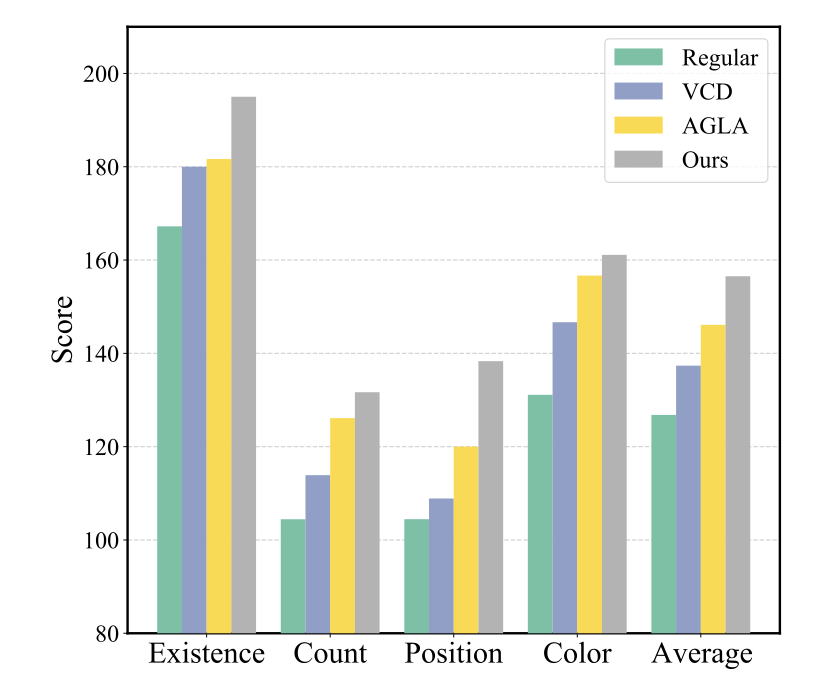
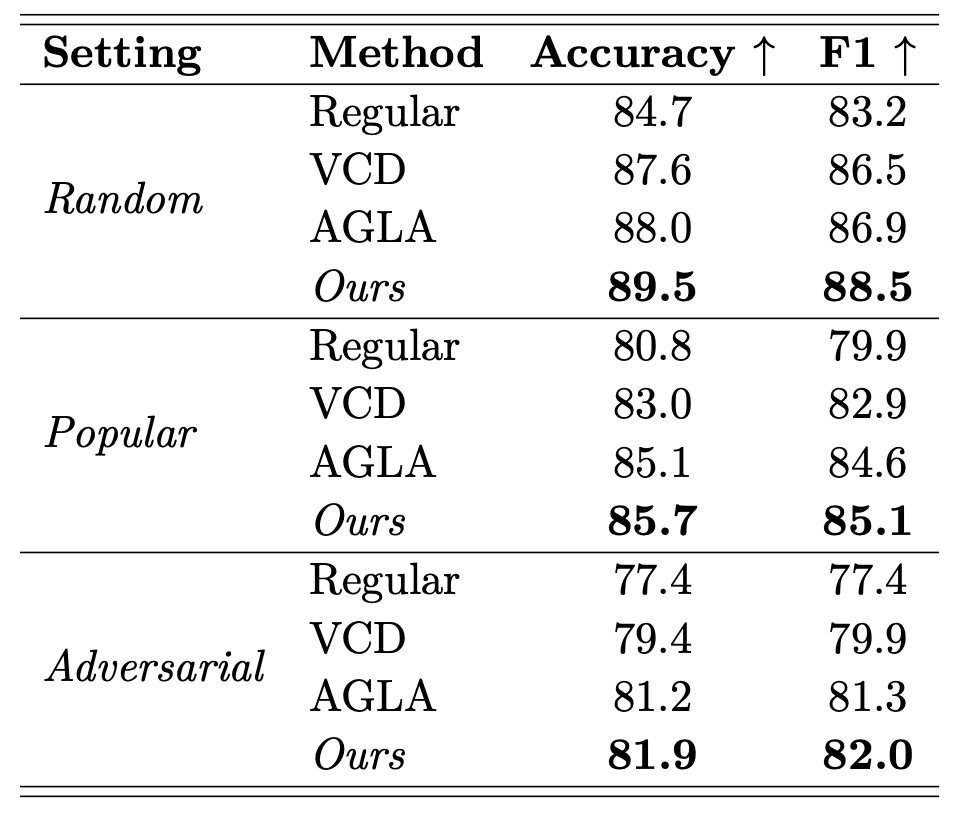
add links

diff --git a/README.md b/README.md
@@ -1,12 +1,12 @@
 # Masking What Matters: A Smarter Way to Stop Vision-Language Models from Hallucinating
 
-*Survey on the paper "Mask What Matters: Mitigating Object Hallucinations in Multimodal Large Language Models with Object-Aligned Visual Contrastive Decoding" by Boqi Chen, Xudong Liu, and Jianing Qiu (2026).*
+*Survey on the paper [Mask What Matters: Mitigating Object Hallucinations in Multimodal Large Language Models with Object-Aligned Visual Contrastive Decoding](https://arxiv.org/abs/2602.11737) by Boqi Chen, Xudong Liu, and Jianing Qiu (2026).*
 
 Multimodal Large Language Models (MLLMs) are impressive at describing images, answering visual questions, and following complex instructions. However, they frequently suffer from so-called object hallucination, which occurs when a model confidently describes objects that simply are not present in the image. 
 
 Imagine asking a model to describe a picture of a dog in a park. Because the model was trained on billions of text documents where dogs are often accompanied by cats or frisbees, its language bias might cause it to hallucinate a frisbee into the scene, even if the image does not show one.
 
-Recently, researchers introduced a novel, training-free method to mitigate this called **Visual Contrastive Decoding (VCD)**. A new paper by researchers from ETH Zurich, Amazon, and MBZUAI introduces an elegant upgrade to this approach: **Object-Aligned Visual Contrastive Decoding (OA-VCD)**. By selectively masking the most important parts of an image, they force the model to rely on actual visual evidence rather than its own linguistic imagination.
+Recently, researchers introduced a novel, training-free method to mitigate this called **[Visual Contrastive Decoding (VCD)](https://arxiv.org/abs/2311.16922)**. A new paper by researchers from ETH Zurich, Amazon, and MBZUAI introduces an elegant upgrade to this approach: **Object-Aligned Visual Contrastive Decoding (OA-VCD)**. By selectively masking the most important parts of an image, they force the model to rely on actual visual evidence rather than its own linguistic imagination.
 
 Here is how it works in detail.
 
@@ -22,18 +22,19 @@ The core idea is simple: if the model predicts the word *frisbee* when looking a
 However, previous methods for corrupting the image are flawed. They relied on random noise, global blurring, or cross-modal models that depended heavily on the text prompt. These distortions are not aligned with the actual boundaries of objects in the image, meaning they might fail to properly obscure the visual evidence. 
 
 ## The Breakthrough: Masking What Matters
-Instead of randomly distorting the image, the authors propose constructing an object-aligned auxiliary view. They achieve this by using the attention maps from a self-supervised Vision Transformer (specifically, DINO). 
+Instead of randomly distorting the image, the authors propose constructing an object-aligned auxiliary view. They achieve this by using the attention maps from a self-supervised Vision Transformer (specifically, [DINO](https://arxiv.org/abs/2104.14294)). 
 
 Self-supervised models like DINO naturally learn to highlight the most prominent, semantically meaningful objects in an image without needing any text prompts or task-specific training. 
 
 The researchers use this DINO attention map to locate the most salient visual evidence in the image. Then, they completely mask it out. 
 
 ![Figure 1](figure_1.png)
+*Figure 1: An overview of the OA-VCD method. (a) In regular decoding, the model incorrectly assigns a high probability to a hallucinated concept ("Boy") due to language priors. (b) In the auxiliary view, the primary visual evidence (the dog) is masked out. Here, ungrounded tokens remain probable while grounded tokens drop. (c) Contrastive decoding subtracts the auxiliary distribution from the regular one, successfully suppressing the hallucination and elevating the correct token ("Dog").*
 
 By removing the main object (e.g., masking the dog with a neutral background color), the model is forced into a corner. If the model still tries to generate the word *dog* while looking at an image where the dog has been explicitly erased, it becomes obvious that the model is hallucinating. The contrastive decoding algorithm catches this and penalizes the hallucinated tokens, producing a more accurate final answer.
 
 ## Evaluation
-The researchers tested OA-VCD on two popular object hallucination benchmarks: POPE and MME. They applied the method to two different widely-used open-source models: LLaVA-v1.5 (7B) and Qwen-VL (7B). 
+The researchers tested OA-VCD on two popular object hallucination benchmarks: [POPE](https://arxiv.org/abs/2305.10355) and [MME](https://arxiv.org/abs/2306.13549). They applied the method to two different widely-used open-source models: [LLaVA-v1.5 (7B)](https://arxiv.org/abs/2304.08485) and [Qwen-VL (7B)](https://arxiv.org/abs/2308.12966). 
 
 The results were following:
 * **Consistent Improvements:** Across different POPE evaluation subsets (Random, Popular, Adversarial), OA-VCD consistently outperformed both regular decoding and previous state-of-the-art VCD methods.
@@ -41,8 +42,13 @@ The results were following:
 * **Qualitative Coherence:** In complex case studies—such as describing a painting of a dog dressed like the Mona Lisa—regular decoding hallucinated non-existent people and additional dogs in the background. OA-VCD successfully removed these hallucinations without degrading the overall fluency or detail of the caption.
 
 ![Figure 2](figure_2.png)
+*Figure 2: A qualitative comparison of captions generated by different decoding methods. In this case study featuring a dog in a Renaissance-style painting, standard regular decoding hallucinates "two additional dogs" and "two people" in the background (highlighted in red). The proposed OA-VCD method effectively suppresses these ungrounded objects without harming the coherence of the output.*
 
 ![Figure 3](figure_3.png)
+*Table 3: Quantitative results on the three POPE evaluation subsets using the LLaVA-v1.5 (7B) model. The proposed OA-VCD method ("Ours") consistently achieves the highest Accuracy and F1 scores across all settings compared to Regular decoding, standard VCD, and the AGLA baseline.*
+
+![Figure 4](figure_4.png)
+*Figure 4: Performance results on the hallucination subset of the MME benchmark using the LLaVA-v1.5 (7B) model. The proposed method (gray) outperforms Regular decoding, standard VCD, and AGLA across all categories.*
 
 ## Why this is a step forward
 One of the most appealing aspects of this method is its efficiency. Mitigating hallucinations during inference often requires heavy computational overhead. However, extracting the DINO attention map to create the masked image only requires a single, cacheable forward pass. 
@@ -53,17 +59,22 @@ While it is not perfect—in highly cluttered scenes, the ViT might struggle to 
 
 ## Related Work
 
-**1. Mitigating Object Hallucinations in Large Vision-Language Models through Visual Contrastive Decoding (Leng et al., 2024)**
+**[1. Mitigating Object Hallucinations in Large Vision-Language Models through Visual Contrastive Decoding (Leng et al., 2024)](https://arxiv.org/abs/2311.16922)**
+
 This paper introduces the foundational Visual Contrastive Decoding (VCD) method, which contrasts a model's output distribution under the original image with a perturbed auxiliary view to suppress tokens driven by language priors. The authors use simple, heuristic methods like adding random noise to create these image perturbations. This paper is the direct predecessor to the paper analyzed above. OA-VCD builds precisely on this framework by replacing the noise-based image perturbation with a semantically meaningful, object-aligned mask to generate a stronger contrast signal.
 
-**2. Mitigating Object Hallucinations in Large Vision-Language Models with Assembly of Global and Local Attention (An et al., 2024)**
+**[2. Mitigating Object Hallucinations in Large Vision-Language Models with Assembly of Global and Local Attention (An et al., 2024)](https://arxiv.org/abs/2406.12718)**
+
 This research mitigates hallucinations by combining global context with local discriminative features via an image-prompt matching scheme. It is known as AGLA, and it preserves prompt-relevant regions while masking distractors to construct its auxiliary views for contrastive decoding. Like the chosen paper, AGLA attempts to create more informative auxiliary views than simple noise. However, OA-VCD improves upon AGLA by being prompt-agnostic and avoiding cross-modal dependencies, relying instead on self-supervised Vision Transformer attention.
 
-**3. VSCoDe: Visual Augmented Contrastive Decoding (Kim et al., 2024b)**
+**[3. VSCoDe: Visual Augmented Contrastive Decoding (Kim et al., 2024b)](https://arxiv.org/abs/2408.05337)**
+
 VSCoDe enhances visual contrastive decoding by dynamically selecting the most effective image perturbation from a pool of augmentations, such as blur, crop, or color changes. It chooses the specific augmentation that maximizes a softmax-distance criterion to strengthen the contrast signal during text generation. This paper shares the exact same core goal as OA-VCD: improving the quality of the auxiliary view for a better contrastive penalty. The chosen paper differentiates itself by noting that VSCoDe's perturbations remain image-level heuristics, whereas OA-VCD provides precise, object-level masking.
 
-**4. Contrastive Response Generation for Mitigating Object Hallucination in LVLMs (Wan et al., 2024)**
+**[4. Contrastive Response Generation for Mitigating Object Hallucination in LVLMs (Wan et al., 2024)](https://arxiv.org/abs/2408.04664)**
+
 This paper explores contrastive decoding from the textual side rather than the visual domain. It contrasts the model's output distributions under standard instructions versus disturbance instructions, such as adding specific role prefixes. By subtracting the disturbance-induced distribution, it aims to detach hallucinated concepts during the inference phase. While OA-VCD tackles hallucinations by perturbing the visual input, this paper provides a complementary approach, demonstrating that inference-time contrastive penalties are effective across multiple modalities.
 
-**5. Evaluating Object Hallucination in Large Vision-Language Models (Li et al., 2023b)**
+**[5. Evaluating Object Hallucination in Large Vision-Language Models (Li et al., 2023b)](https://arxiv.org/abs/2305.10355)**
+
 This work introduces the Polling-based Object Probing Evaluation (POPE) benchmark to systematically evaluate object hallucination in Multimodal Large Language Models. It formulates the evaluation as a structured binary classification task (answering Yes or No) regarding the existence of specific objects in an image. This paper is fundamentally related because it provides the primary evaluation framework used to measure the success of the OA-VCD method. The chosen paper demonstrates its real-world effectiveness by showing significant improvements in F1 and Accuracy scores specifically on the POPE benchmark compared to standard decoding.
